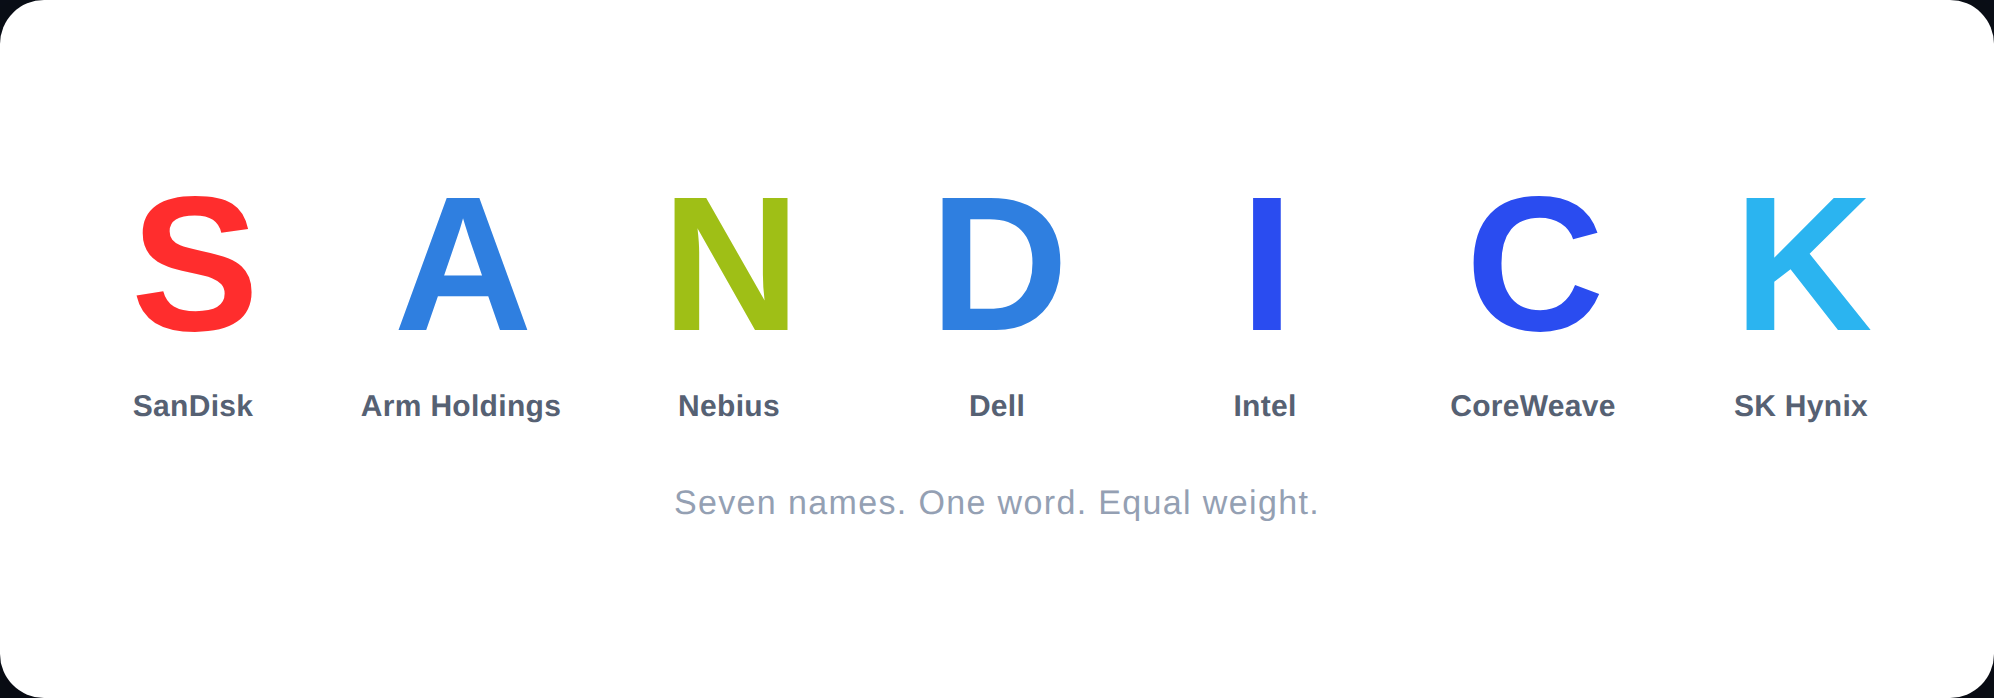
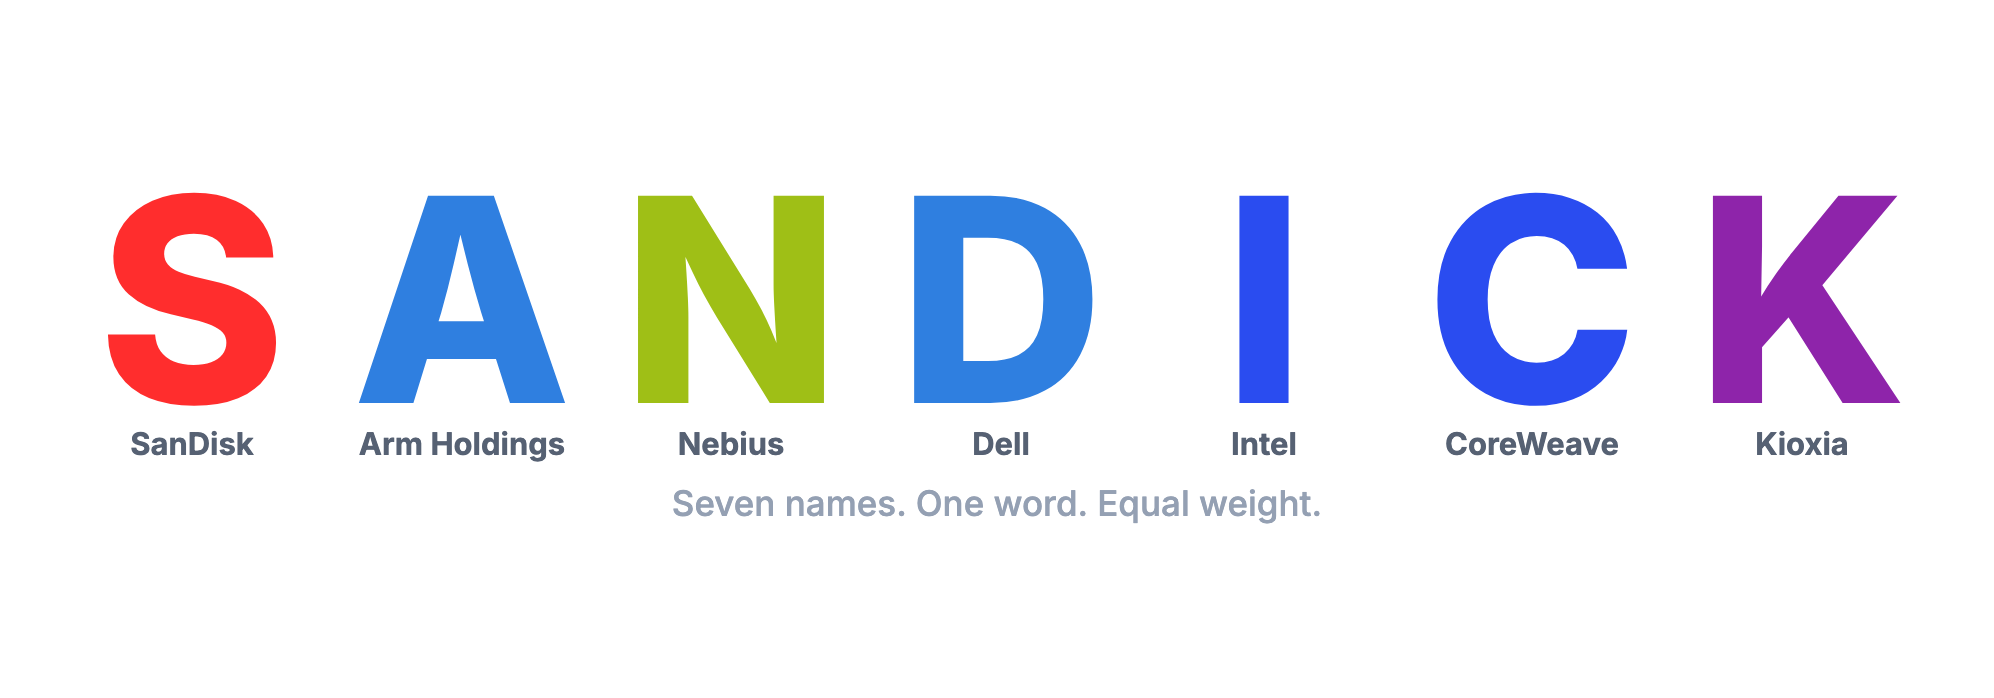
Regenerate SANDICK hero image with Kioxia (was SK Hynix) (#11)
The flagship basket's K slot changed from SK Hynix to Kioxia in #10,
but the hero logo-lineup image still showed SK Hynix. Regenerate it:
the 7th letter K is now Kioxia purple (#8E24AA) and labelled "Kioxia",
matching the basket. All other letters/labels/tagline and the overall
composition are unchanged (same Inter type, colors, spacing).

Also update the hero card's box-shadow glow, which was keyed to the old
SK Hynix cyan (rgba(43,180,240,.4) == #2bb4f0, the old K color), to the
Kioxia purple (rgba(142,36,170,.4)) so the hero stays coherent.

Image is a transparent 1994x698 PNG; corners blend with the CSS card.

diff --git a/frontend/styles.css b/frontend/styles.css
@@ -151,7 +151,7 @@ code {
   width: 100%; border-radius: var(--radius);
   background: #fff; padding: 22px;
   border: 1px solid var(--line);
-  box-shadow: 0 30px 80px -30px rgba(43,180,240,.4);
+  box-shadow: 0 30px 80px -30px rgba(142,36,170,.4);
 }
 .hero__art figcaption { text-align: center; color: var(--muted); font-size: 13px; margin-top: 14px; letter-spacing: .02em; }
 